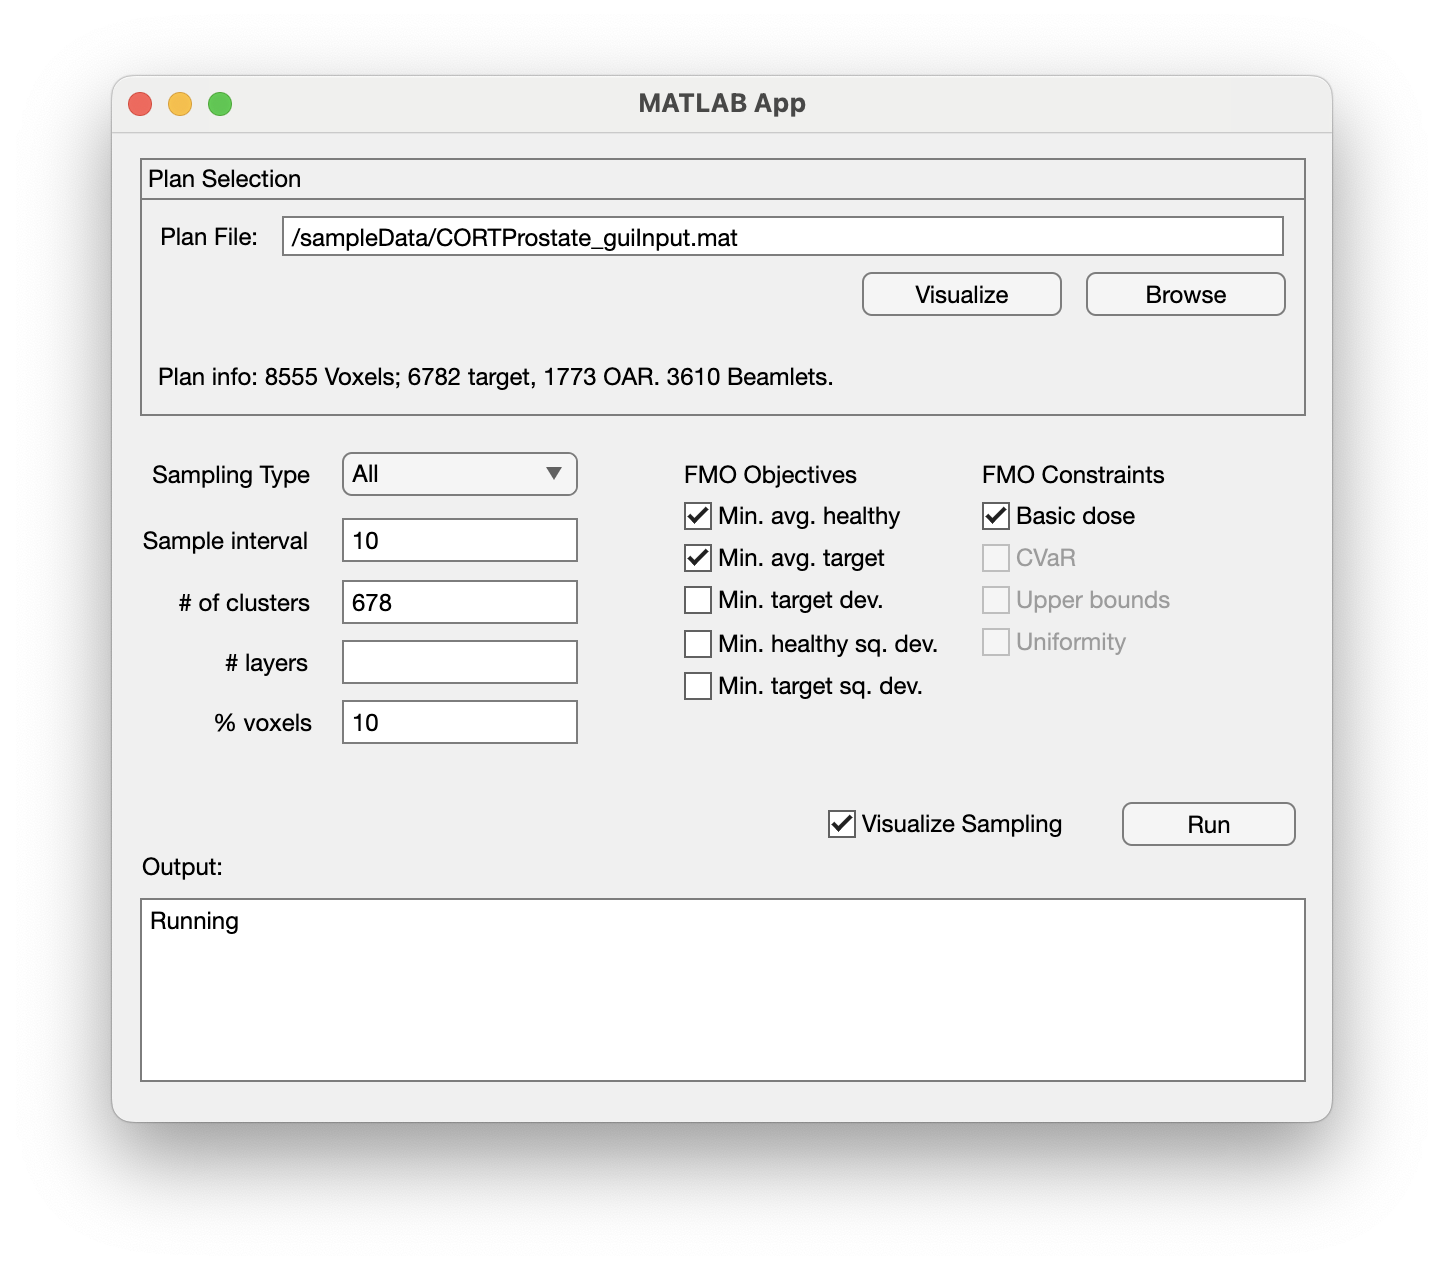
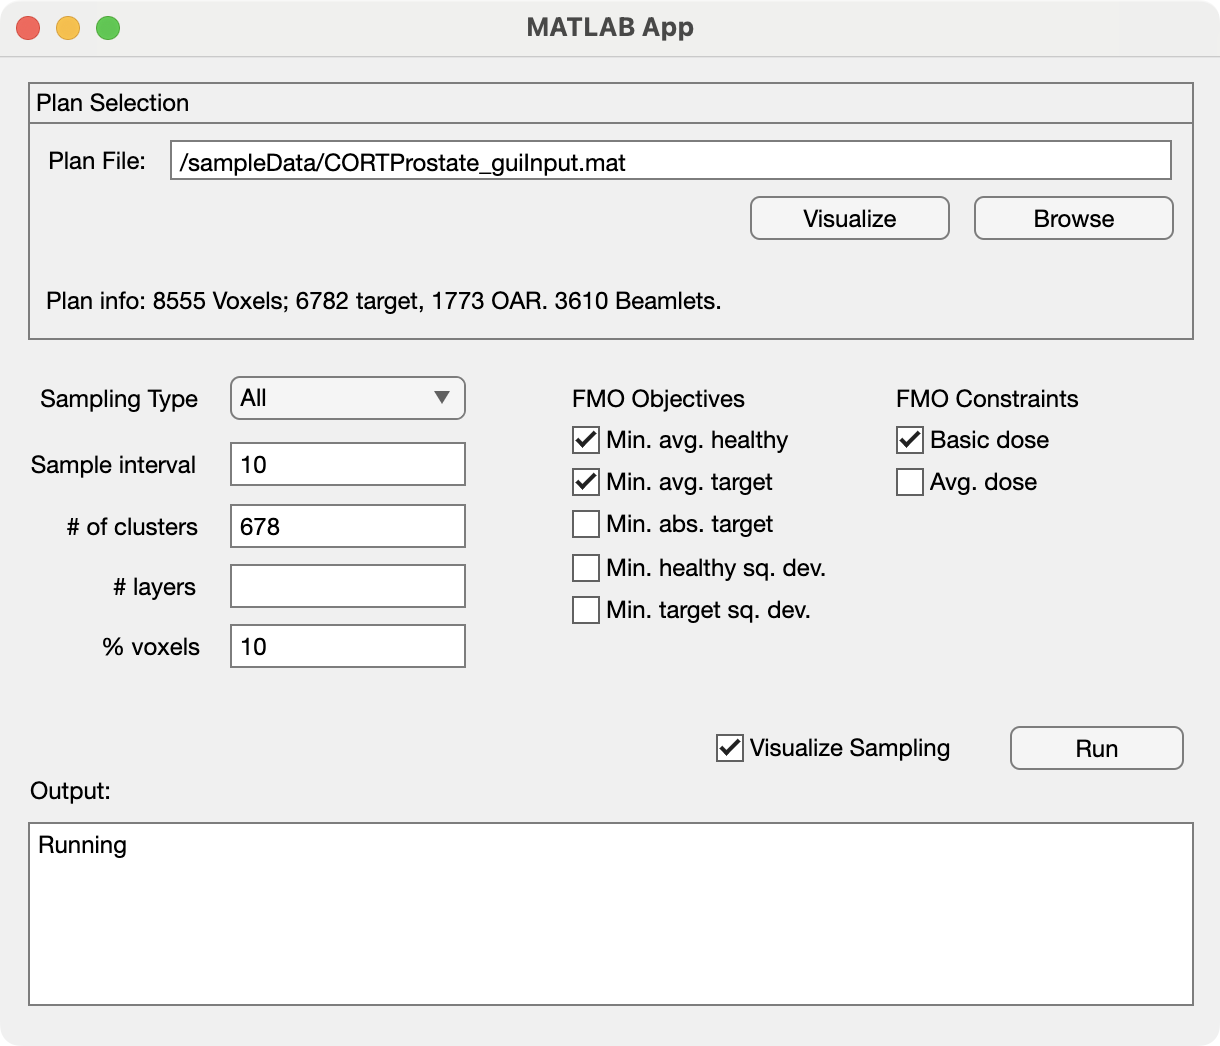
Finalizing pieces, adding documents, matRad conversion script

diff --git a/src/collectmatRadDataForPlanning_multi.m b/src/collectmatRadDataForPlanning_multi.m
@@ -1,0 +1,247 @@
+%% COLLECTMATRADDATAFORPLANNING_MULTI 
+% is a script that takes output from the RT planning interface matRad 
+% (https://github.com/e0404/matRad) and transforms it to be used for the 
+% sampling interface (or other % applications!)
+% 
+% Use:
+% Step1. run matRad in this instance of matlab and load a patient file 
+%           a) This can be a DICOM .dcm from a local clinic or found online
+%           b) Or one of the CORT /phantoms already processed for matRad
+%           c) Or any other dataset processed into a matRad .mat file
+% Step2. Run matRad's Dij calculator (i.e., Calc. Influence Mx) and note:
+%           a) set the parameters how you want them, re:bixel width, # and
+%           location of angles, etc.
+%           b) IF you want open beams, matRad_generateStf approx line 154 
+%           will need to be editted, as by default it fits a target 
+%           projection.
+%           c) You need to run the dose calculator on ALL the structures of
+%           interest. Populate them into the objectives/constraints before
+%           running or they might not show up when you need them.
+% Step3. hardcode the extraction components below (names should match cst)
+%           Variable: target_name, oar_names, outputFileName, targetDose
+%           See matRad's prostate, head & neck, liver examples below
+% Step4. >> collectmatRadDataForPlanning_multi
+%
+% The fields of the output guiInput structure are: 
+%  > Dij: voxels x beamlets matrix
+%  > structVoxels: substruct with voxel indices of each organ in Dij
+%  > targets: target organ id(s) in structVoxels ordering
+%  > OAR: sensitive organ id(s) in structVoxels ordering
+%  > targetDose: Prescribed dose
+%  > beamWidth: horizontal dimension of beamlet
+%  > beamIndicies: [row, col, angle] indices for each voxel, sorted by row
+%  > voxelIndices: I believe the [x,y,z] coord of each voxel
+%  > voxelDim:[x,y,z] dimensions of the voxels (seems like we dont need
+%  this anymore)
+%
+% This script was prepared by Stoyan Hristov (stoyan.hristov@uwaterloo.ca) 
+% and updated by Danielle Ripsman (danielle.ripsman@rotman.utoronto.ca)
+
+%% %%%%%%%%%%%%%%%%%%%%%%%%%%%%%%%%%%%%%%%%%%%%%%%%%%%%%%%%%%%%%%%%%%%%%%%%
+% Extract structVoxels:
+
+% Requirements: A loaded matRad instance, with a cst, dij, stf, pln struct
+%               Access to the matRad codebase for functions, 
+%               e.g. matRad_resizeCstToGrid
+%               Note, the dij must be run with the desired organs, or they
+%               may not exist!
+% Uncomment the desired phantom to run, or try your own!
+
+% LIVER Phantom 
+target_name = 'PTV';
+oar_names = {'Liver', 'SpinalCord'};
+outputFileName = 'craftLIV_guiInput_multioar';
+targetDose = 45.0000;
+
+% PROSTATE Phantom
+% target_name = 'PTV_68';
+% oar_names = {'Rectum', 'Penile_bulb', 'Rt femoral head','Bladder','Lt femoral head'};
+% outputFileName = 'craftPROS_guiInput_multioar';
+% targetDose = 68.0000;
+
+% HEAD AND NECK Phantom
+% target_name = 'PTV70';
+% oar_names = {'BRAIN_STEM', 'CEREBELLUM', 'CHIASMA', 'LARYNX', 'LENS_LT',...
+%              'LENS_RT', 'LIPS', 'OPTIC_NRV_LT', 'OPTIC_NRV_RT',...
+%              'PAROTID_LT', 'PAROTID_RT', 'SPINAL_CORD', 'TEMP_LOBE_LT',...
+%              'TEMP_LOBE_RT', 'TM_JOINT_LT', 'TM_JOINT_RT'};  
+% outputFileName = 'craftHN_guiInput_multioar';
+% targetDose = 70.0000;
+
+%% %%%%%%%%%%%%%%%%%%%%%%%%%%%%%%%%%%%%%%%%%%%%%%%%%%%%%%%%%%%%%%%%%%%%%%%%
+% Remap structures:
+
+% First, map the cst to the space of the Dij 
+vXgridOld = dij.ctGrid.x;  
+vYgridOld = dij.ctGrid.y;  
+vZgridOld = dij.ctGrid.z;  
+vXgridNew = dij.doseGrid.x; 
+vYgridNew = dij.doseGrid.y;  
+vZgridNew = dij.doseGrid.z;  
+cst_mapped = matRad_resizeCstToGrid(cst, vXgridOld, vYgridOld, vZgridOld, vXgridNew, vYgridNew, vZgridNew);
+
+% Now, find the appropriate indices for each structure 
+targetRow = find(strcmp(cst_mapped(:,2),target_name));
+if isempty(targetRow)
+    error('No row in cst_mapped has target_name in the second column.');
+end 
+targetData = cst_mapped{targetRow,4};
+if ~iscell(targetData) || ~isvector(targetData{1}) || size(targetData{1},2) ~= 1
+    error("Fourth column in the target row does not contain the expected x-by-1 double format")
+end 
+targetIndices = targetData{1};
+
+% Initialize
+oarIndices = [];
+structVoxels = struct();
+% Store absolute voxel indices
+for i = 1:length(oar_names)
+    oar_name = oar_names{i};
+    oarRows = find(strcmp(cst_mapped(:,2), oar_name));
+    if isempty(oarRows)
+        warning('No rows in cst_mapped have "%s" in the second column.', oar_name);
+        continue;
+    end
+    oarData = cst_mapped{oarRows,4};
+    if ~iscell(oarData) || ~isvector(oarData{1}) || size(oarData{1},2) ~= 1
+        warning('Unexpected format for voxel data for "%s". Skipping.', oar_name);
+        continue;
+    end
+    fprintf("oar name: %s\n", oar_name);
+    fprintf("oar rows: %d\n", oarRows);
+    fprintf("oar data length: %d\n", numel(oarData{1}));
+    theseIndices = oarData{1};
+    oarIndices = [oarIndices; theseIndices];
+    structVoxels.(matlab.lang.makeValidName(oar_name)) = theseIndices(:)';  % store absolute voxel indices
+end
+
+fprintf("oar indices length: %d\n", numel(oarIndices));
+
+%%% Extract Dij matrix and slice for appropriate indices %%%
+allIndices = unique([targetIndices; oarIndices],'stable');
+oldDij = dij.physicalDose{1};
+
+% Identify non-empty voxel indices
+nonEmptyMask = any(oldDij(allIndices, :), 2);
+filteredIndices = allIndices(nonEmptyMask);
+
+for i = 1:length(oar_names)
+    name = oar_names{i};
+    orgVoxels = structVoxels.(matlab.lang.makeValidName(name));  % these are the voxels for that organ
+    nMatched = sum(ismember(filteredIndices, orgVoxels));
+    fprintf("%s: %d voxels matched\n", name, nMatched);
+end
+
+% Build a mapping from old index to new continuous index
+newIndexMap = zeros(max(allIndices), 1);
+newIndexMap(filteredIndices) = 1:length(filteredIndices);
+
+% Map target indices
+isTarget = ismember(allIndices, targetIndices);
+validTargetIndices = unique(newIndexMap(allIndices(isTarget & nonEmptyMask)));
+structVoxels.target = 1:numel(validTargetIndices);  % Sequentially enumerate target
+
+% Map OARs
+oarCombined = [];
+for i = 1:length(oar_names)
+    fName = matlab.lang.makeValidName(oar_names{i});
+    if isfield(structVoxels, fName)
+        originalVoxelIDs = structVoxels.(fName);  % absolute IDs
+        keptMask = ismember(originalVoxelIDs, filteredIndices);
+        newIDs = newIndexMap(originalVoxelIDs(keptMask));
+        structVoxels.(fName) = newIDs(:)';
+        oarCombined = [oarCombined, newIDs(:)']; % Choosing to keep duplicates here, because if they're in 2 organs, should be penalized twice!
+    end
+end
+structVoxels.OAR = oarCombined(:)';
+
+% Overwrite Dij matrix
+newDij = oldDij(filteredIndices, :);
+
+Dij = struct();
+
+if isfield(dij, 'physicalDose') && iscell(dij.physicalDose)
+    Dij = full(newDij);
+else
+    error('dij.physicalDose does not exist or is not in cell format')
+end
+
+%%% Extract targets and OAR %%%
+%  > targets: target organ id(s) in structVoxels ordering
+targets = 1;
+
+%  > OAR: sensitive organ id(s) in structVoxels ordering
+% will probably need to edit this to include multiple OARs
+OAR = 2;
+
+%%% Extract beamWidth %%%
+%  > beamWidth: horizontal dimension of beamlet
+if isfield(pln, 'propStf') && isfield(pln.propStf, 'bixelWidth')
+    beamWidth = pln.propStf.bixelWidth / 10; % matRad is in mm, sampling app wants cm
+else
+    error('The field pln.propStf.bixelWidth does not exist.');
+end
+
+angles=[stf.totalNumOfBixels];
+numAngles = numel(angles); % The number of angles corresponds to rows in stf
+
+beamIndicies = zeros(sum(angles),3);
+
+start = 1;
+
+for a = 1:numAngles
+    nRays = numel(stf(a).ray);
+    beamCoords = zeros(nRays, 3);
+    for i = 1:nRays
+        beamCoords(i, :) = stf(a).ray(i).rayPos_bev;
+    end
+    % % Preallocate arrays for row and column indices
+    % rowIndices = zeros(nRays, 1);
+    % colIndices = zeros(nRays, 1);
+    % 
+    % % uniqueX = sort(unique(beamCoords(:, 1)), 'ascend'); % Columns: lowest to highest x
+    % % uniqueY = sort(unique(beamCoords(:, 3)), 'descend'); % Rows: highest to lowest y
+    % 
+    % % Map each coordinate to its grid position
+    % for i = 1:nRays
+    %     rowIndices(i) = find(uniqueY == beamCoords(i, 3)); % Match y to row
+    %     colIndices(i) = find(uniqueX == beamCoords(i, 1)); % Match x to column
+    % end
+    % This ordering might not carry properly, since the beams are different
+    % sizes at different angles. Furthermore, if we're not resequencing the
+    % dij columns by the beamlet locations, this will have to be
+    % post-processed anyhow. Report accurate locations in cm instead!
+    
+    % Combine row and column indices
+    beamIndicies(start:start+angles(a)-1,:,:) = [beamCoords(:, 3)/10, beamCoords(:, 1)/10, repmat(a,nRays,1)];%[rowIndices, colIndices,repmat(a,nRays,1)];
+    start = start+angles(a);
+end
+
+
+%%% Generate voxelIndices %%%
+originalTargetIndices = allIndices(isTarget & nonEmptyMask);  % This gives the actual 1D dose grid indices
+targetTable = matRad_cubeIndex2worldCoords(originalTargetIndices, dij.doseGrid);
+
+isOAR = ~isTarget;
+originalOARIndices = allIndices(isOAR & nonEmptyMask);
+oarTable = matRad_cubeIndex2worldCoords(originalOARIndices, dij.doseGrid);
+
+% write to structure 
+voxelIndices = struct();
+voxelIndices.target = targetTable; 
+voxelIndices.OAR = oarTable;
+
+%%% Create guiInput structure and add substructures, save to .mat %%%
+guiInput = struct();
+guiInput.Dij = Dij;
+guiInput.structVoxels = structVoxels;
+guiInput.targets = targets;
+guiInput.OAR = OAR;
+guiInput.targetDose = targetDose;
+guiInput.beamWidth = beamWidth;
+guiInput.beamIndicies = beamIndicies;
+guiInput.voxelIndices = voxelIndices;
+
+%%% Save guiInput to .mat %%%
+save(outputFileName, 'guiInput');
+disp(['Data saved to ' outputFileName]);

diff --git a/src/samplingBenchmarkInterface_exported.m b/src/samplingBenchmarkInterface_exported.m
@@ -23,13 +23,11 @@ classdef samplingBenchmarkInterface_exported < matlab.apps.AppBase
         RunButton                     matlab.ui.control.Button
         FMOConstraintsLabel           matlab.ui.control.Label
         BasicdoseCheckBox             matlab.ui.control.CheckBox
-        CVaRCheckBox                  matlab.ui.control.CheckBox
-        UpperboundsCheckBox           matlab.ui.control.CheckBox
-        UniformityCheckBox_2          matlab.ui.control.CheckBox
+        AvgdoseCheckBox               matlab.ui.control.CheckBox
         FMOObjectivesLabel            matlab.ui.control.Label
         MinavghealthyCheckBox         matlab.ui.control.CheckBox
         MinavgtargetCheckBox          matlab.ui.control.CheckBox
-        MintargetdevCheckBox          matlab.ui.control.CheckBox
+        MinabstargetCheckBox          matlab.ui.control.CheckBox
         SamplingTypeDropDown          matlab.ui.control.DropDown
         SamplingTypeDropDownLabel     matlab.ui.control.Label
         PlanSelectionPanel            matlab.ui.container.Panel
@@ -98,8 +96,8 @@ classdef samplingBenchmarkInterface_exported < matlab.apps.AppBase
         % Button pushed function: RunButton
         function RunButtonPushed(app, event)
     
-            constraints = [app.BasicdoseCheckBox.Value, app.CVaRCheckBox.Value, app.UpperboundsCheckBox.Value, app.UniformityCheckBox_2.Value];
-            optObjs = [app.MinavghealthyCheckBox.Value, app.MinavgtargetCheckBox.Value, app.MintargetdevCheckBox.Value, app.MinhealthysqdevCheckBox.Value, app.MintargetsqdevCheckBox.Value];
+            constraints = [app.BasicdoseCheckBox.Value, app.AvgdoseCheckBox.Value];
+            optObjs = [app.MinavghealthyCheckBox.Value, app.MinavgtargetCheckBox.Value, app.MinabstargetCheckBox.Value, app.MinhealthysqdevCheckBox.Value, app.MintargetsqdevCheckBox.Value];
             samplingType = app.SamplingTypeDropDown.Value;
             layers = app.layersEditField.Value;
             voxelsPercent = app.voxelsEditField.Value;
@@ -138,7 +136,7 @@ classdef samplingBenchmarkInterface_exported < matlab.apps.AppBase
             nOARV = numel(app.inputData.structVoxels.OAR);
             d_target = app.inputData.Dij(app.inputData.structVoxels.target(:), :);
             d_OAR = app.inputData.Dij(app.inputData.structVoxels.OAR(:), :);
-            targetCoords = app.inputData.voxelIndices.target(target_voxels,:);
+            targetCoords = app.inputData.voxelIndices.target;
             if ~isempty(clusters); k = str2double(clusters); else k =[]; end
             if ~isempty(nSample); n = str2double(nSample); else n =[];  end
             if ~isempty(voxelsPercent); p = str2double(voxelsPercent); else p =[];  end
@@ -231,6 +229,10 @@ classdef samplingBenchmarkInterface_exported < matlab.apps.AppBase
             input = tempInput.(fieldNames{1});
             app.inputData = input;
             app.PlaninfoLabel.Text = strcat(['Plan info: ', num2str(size(input.Dij,1)), ' Voxels; ', num2str(numel(input.structVoxels.target)), ' target, ', num2str(numel(input.structVoxels.OAR)), ' OAR. ',num2str(size(input.Dij,2)), ' Beamlets.']);
+            app.SampleintervalEditField.Value='';
+            app.numofclustersEditField.Value = '';
+            app.voxelsEditField.Value = '';
+            app.layersEditField.Value='';   
         end
 
         % Button pushed function: VisualizeButton
@@ -348,10 +350,10 @@ classdef samplingBenchmarkInterface_exported < matlab.apps.AppBase
             app.SamplingTypeDropDown.Position = [116 314 118 22];
             app.SamplingTypeDropDown.Value = 'Downsample';
 
-            % Create MintargetdevCheckBox
-            app.MintargetdevCheckBox = uicheckbox(app.UIFigure);
-            app.MintargetdevCheckBox.Text = 'Min. target dev.';
-            app.MintargetdevCheckBox.Position = [287 251 105 22];
+            % Create MinabstargetCheckBox
+            app.MinabstargetCheckBox = uicheckbox(app.UIFigure);
+            app.MinabstargetCheckBox.Text = 'Min. abs. target';
+            app.MinabstargetCheckBox.Position = [287 251 106 22];
 
             % Create MinavgtargetCheckBox
             app.MinavgtargetCheckBox = uicheckbox(app.UIFigure);
@@ -370,33 +372,20 @@ classdef samplingBenchmarkInterface_exported < matlab.apps.AppBase
             app.FMOObjectivesLabel.Position = [287 314 91 22];
             app.FMOObjectivesLabel.Text = 'FMO Objectives';
 
-            % Create UniformityCheckBox_2
-            app.UniformityCheckBox_2 = uicheckbox(app.UIFigure);
-            app.UniformityCheckBox_2.Enable = 'off';
-            app.UniformityCheckBox_2.Text = 'Uniformity';
-            app.UniformityCheckBox_2.Position = [436 230 76 22];
-
-            % Create UpperboundsCheckBox
-            app.UpperboundsCheckBox = uicheckbox(app.UIFigure);
-            app.UpperboundsCheckBox.Enable = 'off';
-            app.UpperboundsCheckBox.Text = 'Upper bounds';
-            app.UpperboundsCheckBox.Position = [436 251 97 22];
-
-            % Create CVaRCheckBox
-            app.CVaRCheckBox = uicheckbox(app.UIFigure);
-            app.CVaRCheckBox.Enable = 'off';
-            app.CVaRCheckBox.Text = 'CVaR';
-            app.CVaRCheckBox.Position = [436 272 53 22];
+            % Create AvgdoseCheckBox
+            app.AvgdoseCheckBox = uicheckbox(app.UIFigure);
+            app.AvgdoseCheckBox.Text = 'Avg. dose';
+            app.AvgdoseCheckBox.Position = [449 272 76 22];
 
             % Create BasicdoseCheckBox
             app.BasicdoseCheckBox = uicheckbox(app.UIFigure);
             app.BasicdoseCheckBox.Text = 'Basic dose';
-            app.BasicdoseCheckBox.Position = [436 293 81 22];
+            app.BasicdoseCheckBox.Position = [449 293 81 22];
             app.BasicdoseCheckBox.Value = true;
 
             % Create FMOConstraintsLabel
             app.FMOConstraintsLabel = uilabel(app.UIFigure);
-            app.FMOConstraintsLabel.Position = [436 314 96 22];
+            app.FMOConstraintsLabel.Position = [449 314 96 22];
             app.FMOConstraintsLabel.Text = 'FMO Constraints';
 
             % Create RunButton
